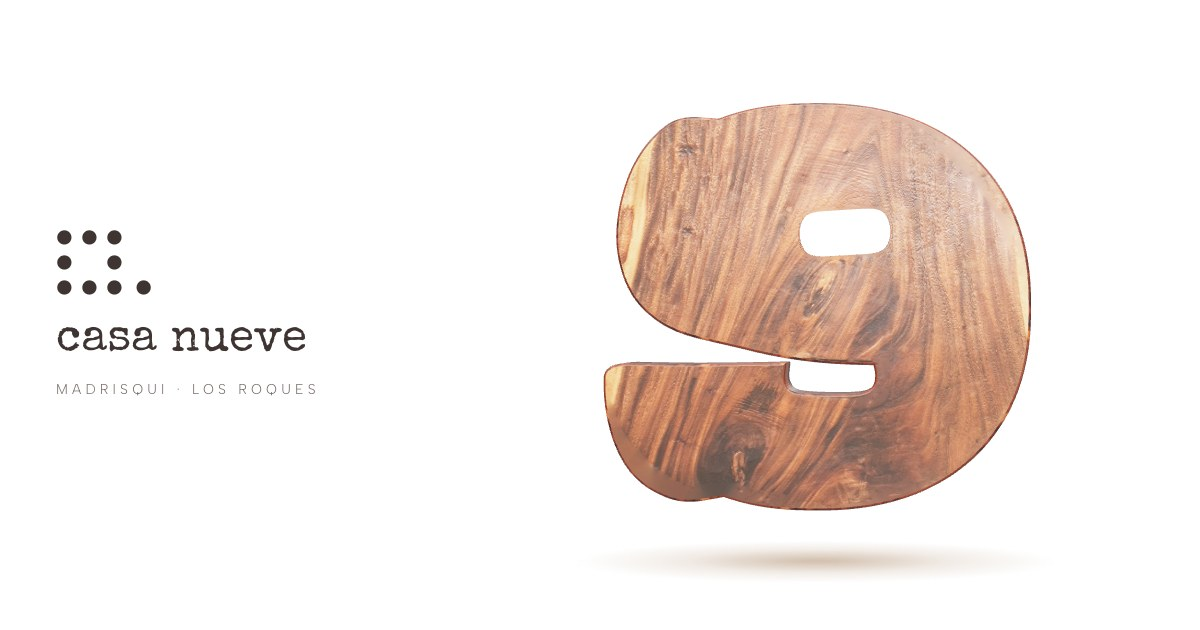
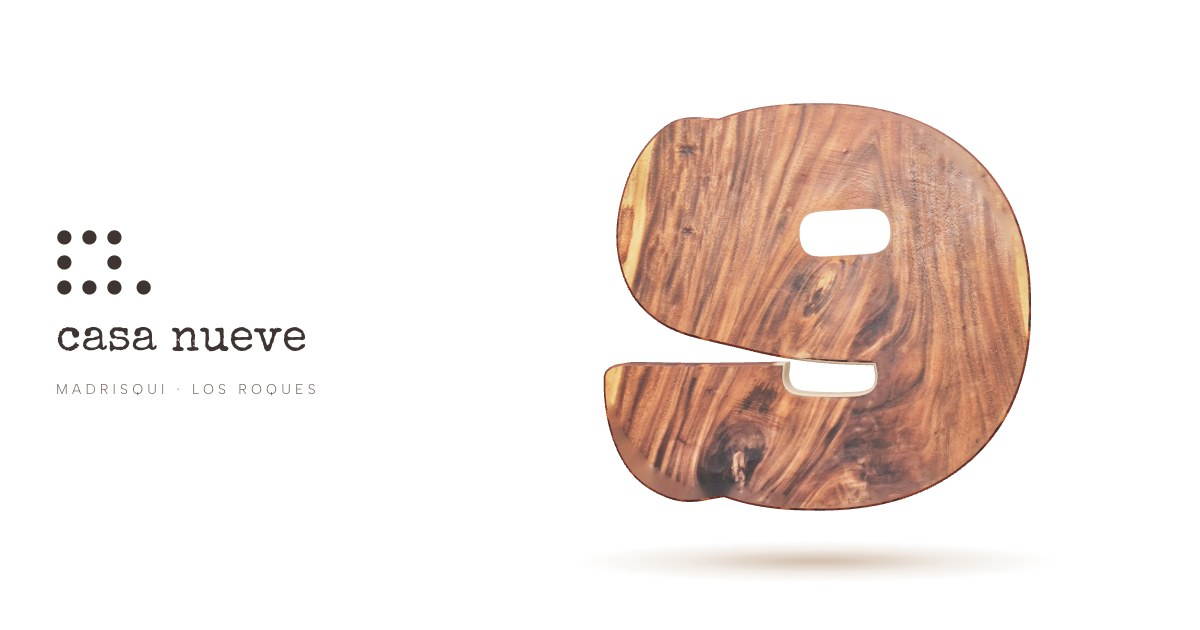
Portada: trazo a lápiz con presión, vetas dibujadas, madera cruda en el ojo y la ranura, veta pareja

diff --git a/js/nueve.js b/js/nueve.js
@@ -28,7 +28,7 @@ renderer.setClearColor(0xffffff, 0);
 const scene = new THREE.Scene();
 const pmrem = new THREE.PMREMGenerator(renderer);
 scene.environment = pmrem.fromScene(new RoomEnvironment(renderer), 0.03).texture;
-scene.environmentIntensity = .75;
+scene.environmentIntensity = .55;
 
 const camera = new THREE.PerspectiveCamera(28, 1, 0.1, 50);
 camera.position.set(0, 0, 7.4);
@@ -39,7 +39,7 @@ scene.add(key);
 const fill = new THREE.DirectionalLight(0xe9f4f4, .45);
 fill.position.set(4, -1, 3);
 scene.add(fill);
-const rim = new THREE.DirectionalLight(0xffffff, 1.1);
+const rim = new THREE.DirectionalLight(0xfff1e2, .7);
 rim.position.set(2, 3, -4);
 scene.add(rim);
 
@@ -65,14 +65,14 @@ const tex = (url, srgb) => new Promise(res => loader.load(url, t => {
   t.repeat.set(.4524, .475); t.offset.set(.5, .4962);
   res(t);
 }, undefined, () => res(null)));
-const [woodMap, woodBump] = await Promise.all([tex('img/madera-9.jpg?v=3', true), tex('img/madera-9-relieve.jpg?v=3', false)]);
+const [woodMap, woodBump] = await Promise.all([tex('img/madera-9.jpg?v=4', true), tex('img/madera-9-relieve.jpg?v=3', false)]);
 const sideMap = woodMap ? woodMap.clone() : null;
 if (sideMap) { sideMap.needsUpdate = true; sideMap.repeat.set(.6, 4); sideMap.offset.set(.2, 0); sideMap.wrapS = sideMap.wrapT = THREE.MirroredRepeatWrapping; }
 
 /* La madera aparece poco a poco, subiendo por la veta, con un borde más oscuro
    como madera recién aceitada. uReveal: 0 → nada, 1 → todo. */
 const uReveal = { value: REDUCED ? 1 : 0 };
-const revealize = mat => {
+const revealize = (mat, isSide = false) => {
   mat.onBeforeCompile = sh => {
     sh.uniforms.uReveal = uReveal;
     sh.vertexShader = 'varying vec3 vObjPos;\n' + sh.vertexShader.replace('#include <begin_vertex>', '#include <begin_vertex>\n vObjPos = position;');
@@ -83,12 +83,20 @@ float vn(vec2 p){ vec2 i = floor(p), f = fract(p); f = f * f * (3. - 2. * f);
 float fbm(vec2 p){ float a = .5, s = 0.; for (int i = 0; i < 4; i++) { s += a * vn(p); p *= 2.03; a *= .5; } return s; }
 ` + sh.fragmentShader.replace('#include <map_fragment>', `#include <map_fragment>
   float front = (vObjPos.y + 1.0) / 2.0 * .82 + (vObjPos.x + 1.0) / 2.0 * .18;
-  float nn = fbm(vObjPos.xy * vec2(6.0, 1.6)) * .26;
-  float m = uReveal * 1.32 - (front + nn);
+  float nn = fbm(vObjPos.xy * vec2(2.6, 1.2) + 3.7) * .2;
+  float m = uReveal * 1.26 - (front + nn);
   if (m < 0.0) discard;
   if (m < .012 && h21(gl_FragCoord.xy) > m / .012) discard;
   float stain = 1.0 - smoothstep(0.0, .09, m);
-  diffuseColor.rgb = mix(diffuseColor.rgb, diffuseColor.rgb * vec3(.52, .4, .32), stain * .85);`);
+  diffuseColor.rgb = mix(diffuseColor.rgb, diffuseColor.rgb * vec3(.52, .4, .32), stain * .85);` + (isSide ? `
+  // dentro del ojo y de la ranura la madera queda cruda y más clara, como en la pieza
+  vec2 q = vObjPos.xy;
+  float inEye = (1.0 - smoothstep(.2, .26, abs(q.x - .147))) * (1.0 - smoothstep(.1, .14, abs(q.y - .345)));
+  float inSlot = (1.0 - smoothstep(.24, .28, abs(q.x - .075))) * (1.0 - smoothstep(.09, .12, abs(q.y + .36)));
+  float raw = max(inEye, inSlot);
+  vec3 rawWood = vec3(.5, .32, .2) * (.86 + .28 * fbm(q * vec2(4.0, 40.0) + vObjPos.z * 9.0));
+  diffuseColor.rgb = mix(diffuseColor.rgb, rawWood, raw * .8);` : '')).replace('#include <roughnessmap_fragment>', '#include <roughnessmap_fragment>' + (isSide ? `
+  roughnessFactor = mix(roughnessFactor, .95, raw);` : ''));
   };
   return mat;
 };
@@ -99,12 +107,12 @@ group.add(piece);
 scene.add(group);
 
 const front = revealize(new THREE.MeshPhysicalMaterial({
-  map: woodMap, bumpMap: woodBump, bumpScale: 1.2,
-  roughness: .42, clearcoat: .55, clearcoatRoughness: .28, sheen: .25, sheenColor: new THREE.Color(0xffd2a6),
+  map: woodMap, bumpMap: woodBump, bumpScale: .75,
+  roughness: .5, clearcoat: .5, clearcoatRoughness: .2,
 }));
 const side = revealize(new THREE.MeshPhysicalMaterial({
-  map: sideMap, color: 0xa87657, roughness: .5, clearcoat: .35, clearcoatRoughness: .35,
-}));
+  map: sideMap, color: 0xa87657, roughness: .6, clearcoat: .12, clearcoatRoughness: .5,
+}), true);
 const nine = new THREE.Mesh(geo, [front, side]);
 nine.scale.z = .06;
 piece.add(nine);
@@ -112,10 +120,23 @@ piece.add(nine);
 /* boceto: trazos finos, como un dibujo a lápiz */
 const zf = DEPTH / 2 + .02;
 const strokes = [];
-const stroke = (pts, color, op, from, to, loop = true) => {
-  const mat = new THREE.LineBasicMaterial({ color, transparent: true, opacity: op });
+let seed = 3;
+const r1 = () => ((seed = (seed * 16807) % 2147483647) / 2147483647);
+const pressure = (g, n, base = .55) => {
+  // el lápiz no pesa igual en todo el trazo: suave al empezar, más firme al medio
+  const col = new Float32Array(n * 4), ph = r1() * 6, ph2 = r1() * 6;
+  for (let i = 0; i < n; i++) {
+    const u = i / Math.max(1, n - 1);
+    const a = base + (1 - base) * (.5 + .3 * Math.sin(u * 9 + ph) + .2 * Math.sin(u * 23 + ph2));
+    col.set([1, 1, 1, Math.min(1, Math.max(.15, a))], i * 4);
+  }
+  g.setAttribute('color', new THREE.BufferAttribute(col, 4));
+};
+const stroke = (pts, color, op, from, to, loop = true, segs = false) => {
+  const mat = new THREE.LineBasicMaterial({ color, transparent: true, opacity: op, vertexColors: true, depthWrite: false });
   const g = new THREE.BufferGeometry().setFromPoints(pts.map(p => new THREE.Vector3(p.x, p.y, zf)));
-  const l = loop ? new THREE.LineLoop(g, mat) : new THREE.Line(g, mat);
+  pressure(g, pts.length);
+  const l = segs ? new THREE.LineSegments(g, mat) : loop ? new THREE.LineLoop(g, mat) : new THREE.Line(g, mat);
   g.setDrawRange(0, 0);
   l.userData = { n: pts.length, from, to, op };
   piece.add(l); strokes.push(l);
@@ -134,6 +155,23 @@ stroke(C, 0x5e4a3e, .95, .15, .85);
 stroke(jitter(C, 1.004, .004, .004, -.003), 0x8a7464, .45, .3, .95);
 stroke(E, 0x5e4a3e, .95, .7, .92);
 stroke(jitter(E, 1.02, -.01, .003, .002), 0x8a7464, .4, .78, 1);
+// vetas a lápiz dentro del 9: luego se vuelven la madera
+const inside = (pt, poly) => { let c = false; for (let i = 0, j = poly.length - 1; i < poly.length; j = i++) {
+  const a = poly[i], b = poly[j];
+  if ((a.y > pt.y) !== (b.y > pt.y) && pt.x < (b.x - a.x) * (pt.y - a.y) / (b.y - a.y) + a.x) c = !c; } return c; };
+const grain = [];
+for (let k = 0; k < 11; k++) {
+  const x0 = -.86 + k * .17 + (r1() - .5) * .05, amp = .025 + r1() * .03, f = 2 + r1() * 2.5, ph = r1() * 6;
+  let prev = null;
+  for (let i = 0; i <= 90; i++) {
+    const y = .98 - i / 90 * 1.96;
+    const pt = new THREE.Vector2(x0 + y * .12 + Math.sin(y * f + ph) * amp + Math.sin(y * 11 + ph) * .006, y);
+    const ok = inside(pt, C) && !inside(pt, jitter(E, 1.15, 0, -.02, 0));
+    if (ok && prev) grain.push(prev, pt);
+    prev = ok ? pt : null;
+  }
+}
+stroke(grain, 0xa08672, .5, .55, 1, false, true);
 
 /* sombra de contacto */
 const shCanvas = document.createElement('canvas'); shCanvas.width = shCanvas.height = 128;
@@ -227,7 +265,8 @@ function loop() {
   piece.rotation.y = -.5 * turn - .1 * body;
   piece.rotation.x = .08 * turn;
   piece.position.y = Math.sin(t * .8) * .018 * body;
-  key.position.x = THREE.MathUtils.lerp(-4.5, -1.5, p) + Math.sin(t * .3) * .4;
+  // reflejo que recorre la laca, más amplio cuando la pieza ya está armada
+  key.position.x = THREE.MathUtils.lerp(-4.5, -1.5, p) + Math.sin(t * .35) * (.4 + 1.6 * body);
   key.position.y = THREE.MathUtils.lerp(4.5, 2.6, p);
   shadow.material.opacity = .85 * clamp((p - .2) / .5);
 

diff --git a/index.html b/index.html
@@ -254,6 +254,6 @@
 
 <script src="js/fotos.js?v=1"></script>
 <script src="js/main.js?v=2"></script>
-<script type="module" src="js/nueve.js?v=3"></script>
+<script type="module" src="js/nueve.js?v=5"></script>
 </body>
 </html>
